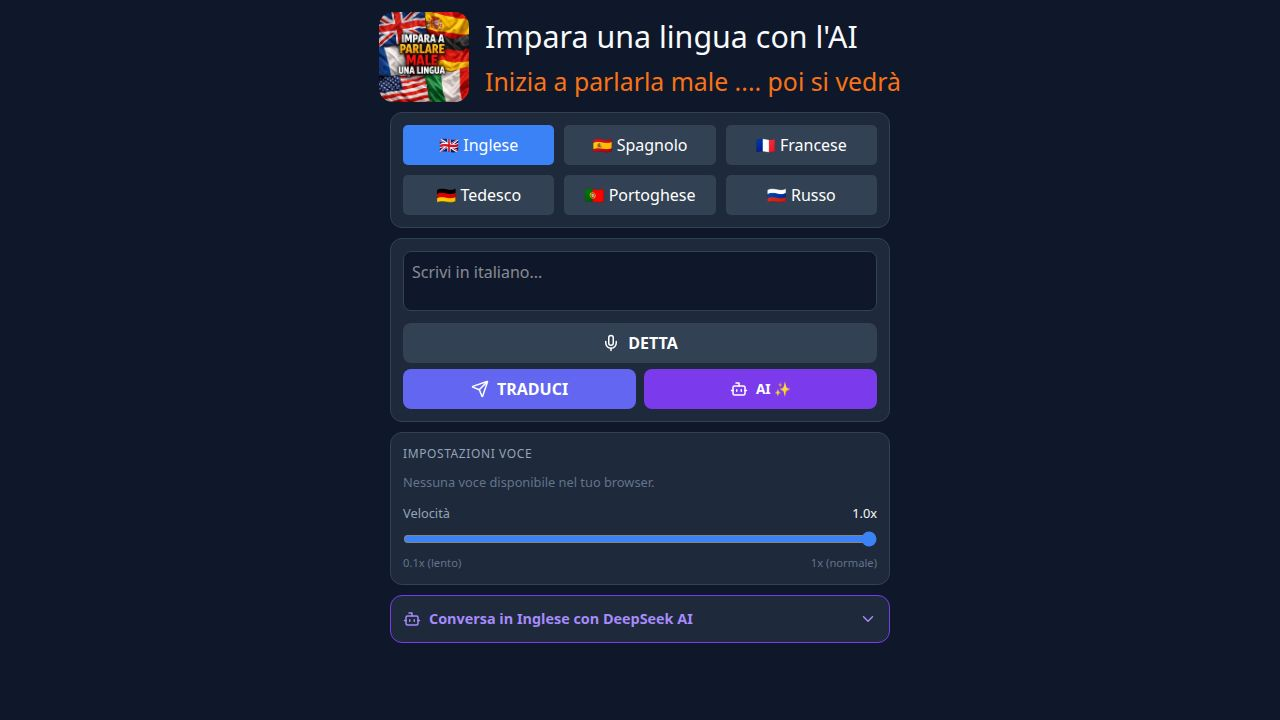
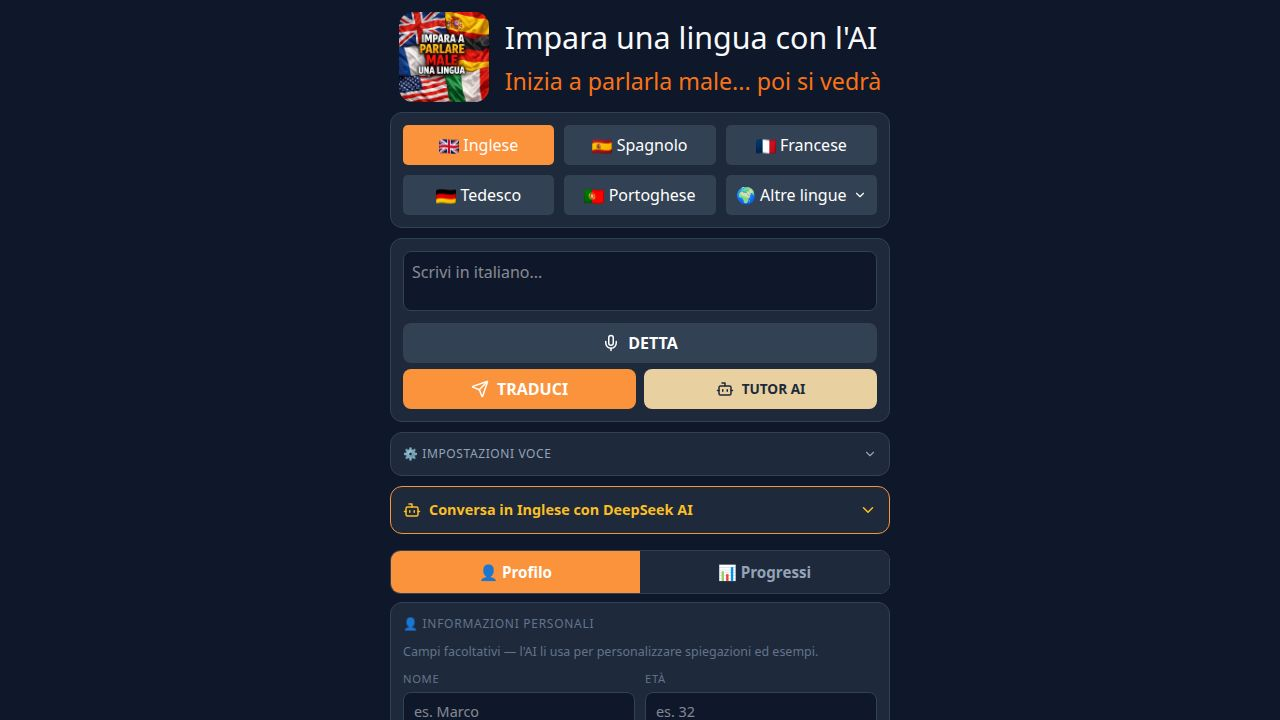
Add copy button and expand/collapse functionality to translation results
Imports Copy and Check icons from lucide-react. Adds state for chat expansion, voice settings visibility, and copy confirmation. Updates the voice settings section to be collapsible with a toggle button. Introduces a copy button for translation results that changes to a checkmark upon successful copy. Modifies chat window height and adds expand/collapse functionality. Fixes placeholder text margin in the chat.

Replit-Commit-Author: Agent
Replit-Commit-Session-Id: db53a7e8-c50e-4452-b767-8b42ae3f5348
Replit-Commit-Checkpoint-Type: full_checkpoint
Replit-Commit-Event-Id: 2ffb5dd4-cfd0-4a6e-8370-1205c95f821b
Replit-Commit-Screenshot-Url: https://storage.googleapis.com/screenshot-production-us-central1/7f2e7385-dc18-4dec-b4cb-b49d934165fd/db53a7e8-c50e-4452-b767-8b42ae3f5348/kwtsNy1
Replit-Helium-Checkpoint-Created: true

diff --git a/artifacts/lingua-ai/src/App.tsx b/artifacts/lingua-ai/src/App.tsx
@@ -1,5 +1,5 @@
 import { useState, useEffect, useRef } from 'react';
-import { Mic, Volume2, Send, Loader2, AlertCircle, Bot, X, ChevronDown, ChevronUp } from 'lucide-react';
+import { Mic, Volume2, Send, Loader2, AlertCircle, Bot, X, ChevronDown, ChevronUp, Copy, Check } from 'lucide-react';
 import appIcon from '@assets/icon-192_1775392140519.png';
 
 const LINGVA_INSTANCES = [
@@ -210,10 +210,13 @@ export default function App() {
   const [phonetic, setPhonetic] = useState<string | null>(null);
   const [aiExplanation, setAiExplanation] = useState<{ explanation: string; example: string } | null>(null);
   const [showChat, setShowChat] = useState(false);
+  const [chatExpanded, setChatExpanded] = useState(false);
   const [chatMessages, setChatMessages] = useState<ChatMessage[]>([]);
   const [chatInput, setChatInput] = useState('');
   const [chatLoading, setChatLoading] = useState(false);
   const [showMoreLangs, setShowMoreLangs] = useState(false);
+  const [showVoiceSettings, setShowVoiceSettings] = useState(false);
+  const [copied, setCopied] = useState(false);
   const [activeTab, setActiveTab] = useState<'profilo' | 'progressi'>('profilo');
   const [progress, setProgress] = useState<ProgressStats>(loadProgress);
   const [profile, setProfile] = useState<UserProfile>(loadProfile);
@@ -636,71 +639,108 @@ export default function App() {
         </section>
 
         <section style={styles.card}>
-          <p style={{ color: '#94a3b8', fontSize: '0.75rem', marginBottom: '10px', textTransform: 'uppercase', letterSpacing: '0.05em' }}>Impostazioni voce</p>
+          <button
+            onClick={() => setShowVoiceSettings(v => !v)}
+            style={{
+              width: '100%',
+              background: 'none',
+              border: 'none',
+              color: '#94a3b8',
+              cursor: 'pointer',
+              display: 'flex',
+              alignItems: 'center',
+              justifyContent: 'space-between',
+              padding: 0,
+              fontSize: '0.75rem',
+              textTransform: 'uppercase',
+              letterSpacing: '0.05em',
+              marginBottom: showVoiceSettings ? '10px' : 0,
+            }}
+          >
+            <span>⚙ Impostazioni voce</span>
+            {showVoiceSettings ? <ChevronUp size={14} /> : <ChevronDown size={14} />}
+          </button>
 
-          {voices.length > 0 ? (
-            <div style={{ marginBottom: '12px' }}>
-              <label style={{ fontSize: '0.8rem', color: '#94a3b8', display: 'block', marginBottom: '4px' }}>
-                Voce {langVoices.length > 0 ? `(${langVoices.length} per questa lingua)` : '(tutte disponibili)'}
-              </label>
-              <select
-                value={selectedVoiceURI}
-                onChange={e => setSelectedVoiceURI(e.target.value)}
-                style={{
-                  width: '100%',
-                  padding: '8px',
-                  backgroundColor: '#0f172a',
-                  color: '#fff',
-                  border: '1px solid #334155',
-                  borderRadius: '6px',
-                  fontSize: '0.9rem',
-                }}
-              >
-                <option value="">— Voce predefinita —</option>
-                {availableVoices.map(v => (
-                  <option key={v.voiceURI} value={v.voiceURI}>
-                    {v.name} [{v.lang}]
-                  </option>
-                ))}
-              </select>
-            </div>
-          ) : (
-            <p style={{ fontSize: '0.8rem', color: '#64748b', marginBottom: '12px' }}>
-              Nessuna voce disponibile nel tuo browser.
-            </p>
+          {showVoiceSettings && (
+            <>
+              {voices.length > 0 ? (
+                <div style={{ marginBottom: '12px' }}>
+                  <label style={{ fontSize: '0.8rem', color: '#94a3b8', display: 'block', marginBottom: '4px' }}>
+                    Voce {langVoices.length > 0 ? `(${langVoices.length} per questa lingua)` : '(tutte disponibili)'}
+                  </label>
+                  <select
+                    value={selectedVoiceURI}
+                    onChange={e => setSelectedVoiceURI(e.target.value)}
+                    style={{
+                      width: '100%',
+                      padding: '8px',
+                      backgroundColor: '#0f172a',
+                      color: '#fff',
+                      border: '1px solid #334155',
+                      borderRadius: '6px',
+                      fontSize: '0.9rem',
+                    }}
+                  >
+                    <option value="">— Voce predefinita —</option>
+                    {availableVoices.map(v => (
+                      <option key={v.voiceURI} value={v.voiceURI}>
+                        {v.name} [{v.lang}]
+                      </option>
+                    ))}
+                  </select>
+                </div>
+              ) : (
+                <p style={{ fontSize: '0.8rem', color: '#64748b', marginBottom: '12px' }}>
+                  Nessuna voce disponibile nel tuo browser.
+                </p>
+              )}
+              <div>
+                <label style={{ fontSize: '0.8rem', color: '#94a3b8', display: 'flex', justifyContent: 'space-between', marginBottom: '6px' }}>
+                  <span>Velocità</span>
+                  <span style={{ color: '#f8fafc' }}>{speechRate.toFixed(1)}x</span>
+                </label>
+                <input
+                  type="range"
+                  min={0.1}
+                  max={1}
+                  step={0.1}
+                  value={speechRate}
+                  onChange={e => setSpeechRate(Number(e.target.value))}
+                  style={{ width: '100%', accentColor: '#fb923c' }}
+                />
+                <div style={{ display: 'flex', justifyContent: 'space-between', fontSize: '0.7rem', color: '#64748b', marginTop: '2px' }}>
+                  <span>0.1x (lento)</span>
+                  <span>1x (normale)</span>
+                </div>
+              </div>
+            </>
           )}
-
-          <div>
-            <label style={{ fontSize: '0.8rem', color: '#94a3b8', display: 'flex', justifyContent: 'space-between', marginBottom: '6px' }}>
-              <span>Velocità</span>
-              <span style={{ color: '#f8fafc' }}>{speechRate.toFixed(1)}x</span>
-            </label>
-            <input
-              type="range"
-              min={0.1}
-              max={1}
-              step={0.1}
-              value={speechRate}
-              onChange={e => setSpeechRate(Number(e.target.value))}
-              style={{ width: '100%', accentColor: '#fb923c' }}
-            />
-            <div style={{ display: 'flex', justifyContent: 'space-between', fontSize: '0.7rem', color: '#64748b', marginTop: '2px' }}>
-              <span>0.1x (lento)</span>
-              <span>1x (normale)</span>
-            </div>
-          </div>
         </section>
 
         {translatedText && (
           <section style={{ ...styles.card, borderLeft: '4px solid #10b981' }}>
             <div style={{ display: 'flex', justifyContent: 'space-between', alignItems: 'center' }}>
               <p style={{ fontSize: '1.2rem', fontWeight: 'bold', margin: 0 }}>{translatedText}</p>
-              <Volume2
-                size={24}
-                color="#10b981"
-                style={{ cursor: 'pointer', flexShrink: 0, marginLeft: '8px' }}
-                onClick={() => speak(translatedText)}
-              />
+              <div style={{ display: 'flex', gap: '8px', flexShrink: 0, marginLeft: '8px' }}>
+                <button
+                  title="Copia traduzione"
+                  onClick={() => {
+                    navigator.clipboard.writeText(translatedText).then(() => {
+                      setCopied(true);
+                      setTimeout(() => setCopied(false), 2000);
+                    });
+                  }}
+                  style={{ background: 'none', border: 'none', cursor: 'pointer', padding: '2px', color: copied ? '#10b981' : '#64748b' }}
+                >
+                  {copied ? <Check size={20} /> : <Copy size={20} />}
+                </button>
+                <Volume2
+                  size={24}
+                  color="#10b981"
+                  style={{ cursor: 'pointer' }}
+                  onClick={() => speak(translatedText)}
+                />
+              </div>
             </div>
             {phonetic && (
               <p style={{
@@ -810,13 +850,24 @@ export default function App() {
             <span style={{ display: 'flex', alignItems: 'center', gap: '8px' }}>
               <Bot size={18} /> Conversa in {langName} con DeepSeek AI
             </span>
-            {showChat ? <ChevronUp size={18} /> : <ChevronDown size={18} />}
+            <div style={{ display: 'flex', alignItems: 'center', gap: '8px' }}>
+              {showChat && (
+                <button
+                  title={chatExpanded ? 'Riduci chat' : 'Espandi chat'}
+                  onClick={e => { e.stopPropagation(); setChatExpanded(v => !v); }}
+                  style={{ background: 'none', border: 'none', cursor: 'pointer', color: '#fbbf24', padding: '2px', display: 'flex' }}
+                >
+                  {chatExpanded ? <ChevronUp size={16} /> : <ChevronDown size={16} />}
+                </button>
+              )}
+              {showChat ? <ChevronUp size={18} /> : <ChevronDown size={18} />}
+            </div>
           </button>
 
           {showChat && (
             <div style={{ marginTop: '10px' }}>
               <div ref={chatContainerRef} style={{
-                height: '100px',
+                height: chatExpanded ? '360px' : '220px',
                 overflowY: 'auto',
                 backgroundColor: '#0f172a',
                 borderRadius: '8px',
@@ -825,7 +876,7 @@ export default function App() {
                 border: '1px solid #334155',
               }}>
                 {chatMessages.length === 0 && (
-                  <p style={{ color: '#64748b', fontSize: '0.8rem', textAlign: 'center', marginTop: '70px' }}>
+                  <p style={{ color: '#64748b', fontSize: '0.8rem', textAlign: 'center', marginTop: '90px' }}>
                     Scrivi qualcosa per iniziare a conversare in {langName}...
                   </p>
                 )}
